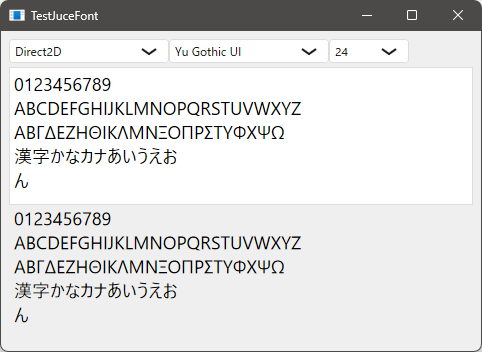
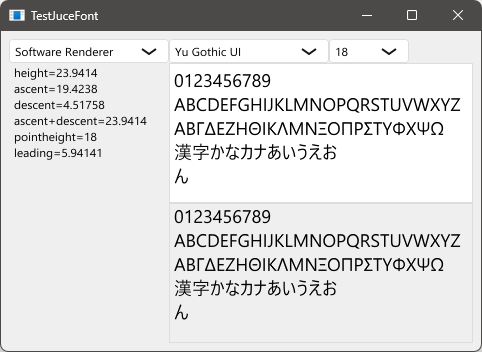
further research

diff --git a/Source/Main.cpp b/Source/Main.cpp
@@ -32,27 +32,35 @@ void setupEnvironmentFont()
 }
 #endif
 
+juce::Font getFontWithTypefaceNameAndPointHeightAndStyle(const juce::String typefacename, float pointheight, int style)
+{
+	juce::Font tmpfont;
+	tmpfont.setTypefaceName(typefacename);
+	juce::Typeface::Ptr tf = tmpfont.getTypefacePtr();
+	float scale = tf->getHeightToPointsFactor();
+	float fontheight = pointheight / scale;
+	return juce::Font(typefacename, fontheight, style);
+}
+
 class MainComponent : public juce::Component
 {
 private:
 	struct Renderer
 	{
-		juce::Component* component = nullptr;
 		juce::ComponentPeer* peer = nullptr;
 		juce::StringArray engineNameList;
 		int engineIndex = 0;
 		std::function<void()> onEngineListDidUpdate;
 		std::function<void()> onEngineDidChange;
-		Renderer(juce::Component* p) : component(p)
+		Renderer()
 		{
 		}
-		void updatePeer()
+		void updatePeer(juce::Component* cmp)
 		{
-			juce::ComponentPeer* p = component->getPeer();
+			juce::ComponentPeer* p = cmp->getPeer();
 			if(peer == p) return;
 			peer = p;
-			if(!peer) return;
-			engineNameList = peer->getAvailableRenderingEngines();
+			engineNameList = peer ? peer->getAvailableRenderingEngines() : juce::StringArray();
 			if(onEngineListDidUpdate) onEngineListDidUpdate();
 			setEngineIndex(engineIndex);
 		}
@@ -70,16 +78,14 @@ private:
 	juce::ComboBox engineCombo;
 	juce::ComboBox typefaceCombo;
 	juce::ComboBox fontSizeCombo;
-	juce::Label label;
+	juce::Label infoLabel;
 	juce::TextEditor textEditor;
-	enum { Margin = 8, Spacing = 4, ControlHeight = 24 };
+	juce::Label displayLabel;
+	enum { Margin = 8, CBHeight = 24, EngineWidth = 160, TypefaceWidth = 160, FontsizeWidth = 80, InfoWidth = 160 };
 	JUCE_DECLARE_NON_COPYABLE_WITH_LEAK_DETECTOR(MainComponent)
 public:
-	MainComponent() : renderer(this)
+	MainComponent()
 	{
-//		setOpaque(true);
-//		DBG("defaultalpha=" << getAlpha());
-//		setAlpha(1);
 		renderer.onEngineListDidUpdate = [this]()
 		{
 			engineCombo.clear(juce::dontSendNotification);
@@ -104,67 +110,82 @@ public:
 			updateFont();
 		};
 		addAndMakeVisible(fontSizeCombo);
-		fontSizeCombo.addItemList({ "8", "9", "10", "11", "12", "14", "16", "18", "20", "22", "24", "26", "28", "36", "48", "72" }, 1);
+		fontSizeCombo.setEditableText(true);
+		fontSizeCombo.addItemList(juce::StringArray({ 8, 9, 10, 11, 12, 14, 16, 18, 20, 22, 24, 26, 28, 36, 48, 72 }), 1);
 		fontSizeCombo.setText(juce::String(juce::Font().getHeight()), juce::dontSendNotification);
-		if(fontSizeCombo.getSelectedItemIndex() < 0) fontSizeCombo.setSelectedItemIndex(0, juce::dontSendNotification);
 		fontSizeCombo.onChange = [this]()
 		{
 			updateFont();
 		};
-		addAndMakeVisible(label);
-		label.setJustificationType(juce::Justification::topLeft);
+		addAndMakeVisible(infoLabel);
+		infoLabel.setFont(juce::Font().withPointHeight(12));
+		infoLabel.setJustificationType(juce::Justification::topLeft);
 		addAndMakeVisible(textEditor);
 		textEditor.setMultiLine(true, true);
 		textEditor.setReturnKeyStartsNewLine(true);
 		textEditor.setTabKeyUsedAsCharacter(true);
 		textEditor.onTextChange = [this]()
 		{
-			label.setText(textEditor.getText(), juce::dontSendNotification);
+			displayLabel.setText(textEditor.getText(), juce::dontSendNotification);
 		};
-		textEditor.setText(juce::File::getSpecialLocation(juce::File::currentApplicationFile).getParentDirectory().getChildFile("sampletext.txt").loadFileAsString());
+		addAndMakeVisible(displayLabel);
+		displayLabel.setColour(juce::Label::ColourIds::outlineColourId, getLookAndFeel().findColour(juce::TextEditor::ColourIds::outlineColourId));
+		displayLabel.setJustificationType(juce::Justification::topLeft);
 		updateFont();
 		setSize(480, 320);
+		loadTextFile(juce::File::getSpecialLocation(juce::File::currentApplicationFile).getParentDirectory().getChildFile("sampletext.txt"));
 	}
 	virtual ~MainComponent() override
 	{
 	}
 	void updateFont()
 	{
-		juce::Font font(typefaceCombo.getText(), fontSizeCombo.getText().getFloatValue(), juce::Font::plain);
-		DBG("font=" << font.getTypefaceName().quoted() << " " << font.getHeight());
+		juce::Font font = getFontWithTypefaceNameAndPointHeightAndStyle(typefaceCombo.getText(), fontSizeCombo.getText().getFloatValue(), juce::Font::plain);
+		juce::Typeface::Ptr tf = font.getTypefacePtr();
+		DBG("font=" << font.getTypefaceName().quoted());
+		DBG(juce::String::formatted("  font={ height=%g, ascent=%g, descent=%g, ascent+descent=%g, pointheight=%g }", font.getHeight(), font.getAscent(), font.getDescent(), font.getAscent() + font.getDescent(), font.getHeightInPoints()));
+		DBG(juce::String::formatted("  typeface={ ascent=%g, descent=%g, ascent+descent=%g, heighttopointsfactor=%g }", tf->getAscent(), tf->getDescent(), tf->getAscent() + tf->getDescent(), tf->getHeightToPointsFactor()));
+		infoLabel.setText(juce::String::formatted("height=%g\nascent=%g\ndescent=%g\nascent+descent=%g\npointheight=%g\nleading=%g", font.getHeight(), font.getAscent(), font.getDescent(), font.getAscent() + font.getDescent(), font.getHeightInPoints(), font.getHeight() - font.getHeightInPoints()), juce::dontSendNotification);
 		textEditor.applyFontToAllText(font);
-		label.setFont(font);
+		displayLabel.setFont(font);
 	}
 	virtual void parentHierarchyChanged() override
 	{
-		renderer.updatePeer();
+		renderer.updatePeer(this);
 	}
 	virtual void resized() override
 	{
 		juce::Rectangle<int> rc = getLocalBounds().reduced(Margin);
-		juce::Rectangle<int> rccb = rc.removeFromTop(ControlHeight);
-		engineCombo.setBounds(rccb.removeFromLeft(160));
-		typefaceCombo.setBounds(rccb.removeFromLeft(160));
-		fontSizeCombo.setBounds(rccb.removeFromLeft(80));
-		rc.removeFromTop(Spacing);
+		juce::Rectangle<int> rccb = rc.removeFromTop(CBHeight);
+		engineCombo.setBounds(rccb.removeFromLeft(EngineWidth));
+		typefaceCombo.setBounds(rccb.removeFromLeft(TypefaceWidth));
+		fontSizeCombo.setBounds(rccb.removeFromLeft(FontsizeWidth));
+		infoLabel.setBounds(rc.removeFromLeft(InfoWidth));
 		textEditor.setBounds(rc.removeFromTop(rc.getHeight() / 2));
-		label.setBounds(rc);
+		displayLabel.setBounds(rc);
 	}
 	virtual void paint(juce::Graphics& g) override
 	{
 		g.fillAll(getLookAndFeel().findColour(juce::ResizableWindow::backgroundColourId));
 	}
+	void loadTextFile(const juce::File& path)
+	{
+		if(!path.existsAsFile() || (65536 <= path.getSize())) return;
+		textEditor.setText(path.loadFileAsString());
+	}
 };
 
-class MainWindow : public juce::DocumentWindow
+class MainWindow : public juce::DocumentWindow, public juce::FileDragAndDropTarget
 {
 private:
+	std::unique_ptr<MainComponent> mainComponent;
 	JUCE_DECLARE_NON_COPYABLE_WITH_LEAK_DETECTOR(MainWindow)
 public:
 	MainWindow(juce::String name) : DocumentWindow(name, juce::Desktop::getInstance().getDefaultLookAndFeel().findColour(juce::ResizableWindow::backgroundColourId), DocumentWindow::allButtons)
 	{
 		setUsingNativeTitleBar(true);
-		setContentOwned(new MainComponent(), true);
+		mainComponent = std::make_unique<MainComponent>();
+		setContentNonOwned(mainComponent.get(), true);
 #if JUCE_IOS || JUCE_ANDROID
 		setFullScreen(true);
 #else
@@ -176,6 +197,14 @@ public:
 	virtual void closeButtonPressed() override
 	{
 		juce::JUCEApplication::getInstance()->systemRequestedQuit();
+	}
+	virtual bool isInterestedInFileDrag(const juce::StringArray& files) override
+	{
+		return files.size() == 1;
+	}
+	virtual void filesDropped(const juce::StringArray& files, int, int) override
+	{
+		mainComponent->loadTextFile(juce::File(files[0]));
 	}
 };
 
